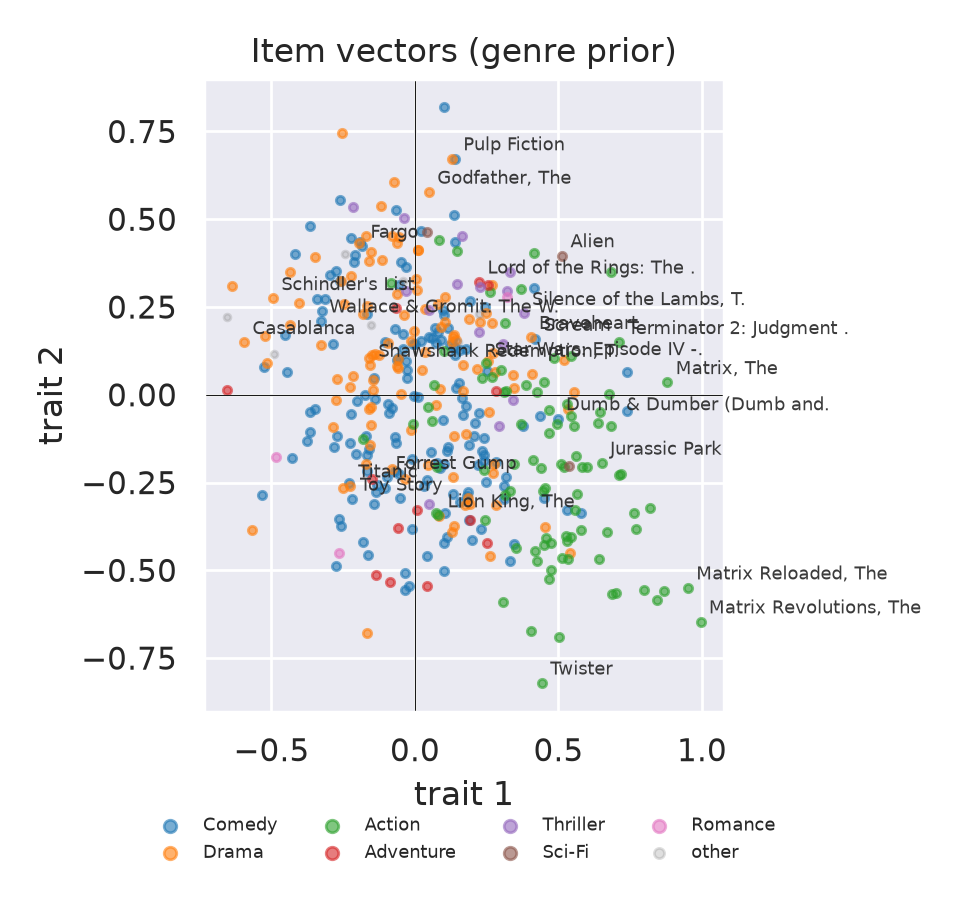
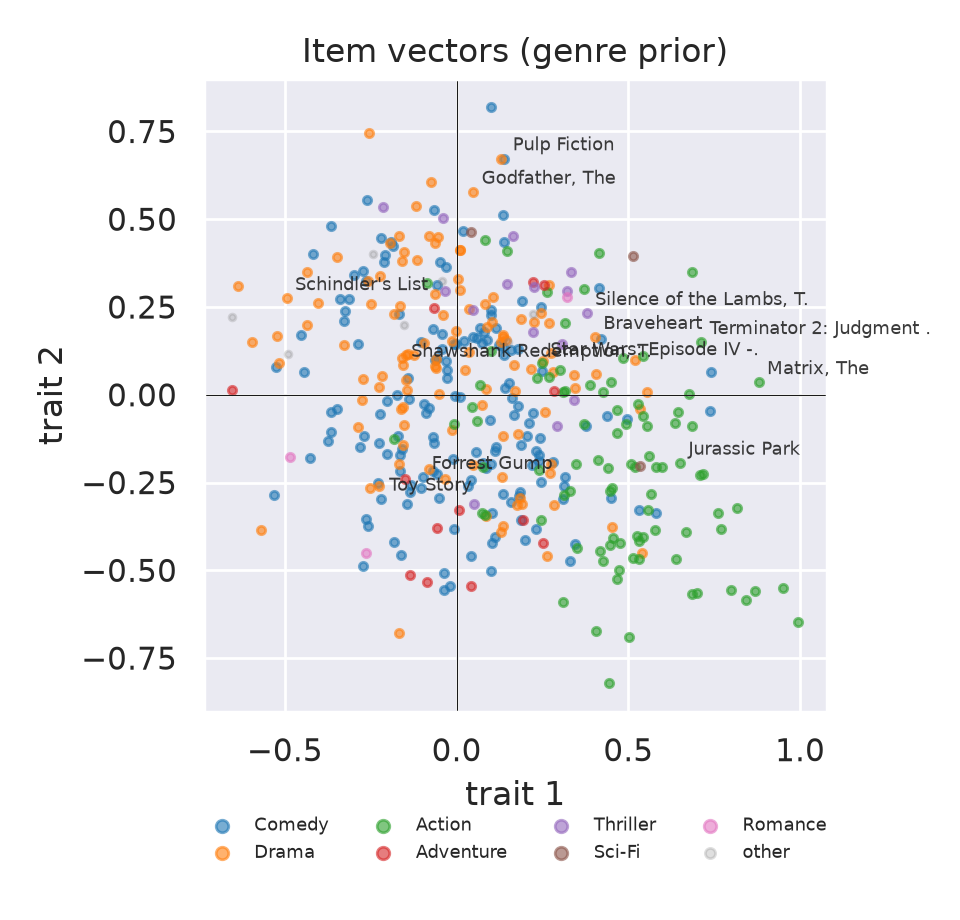
Enhance results tracking and visualization in recommender system practices; update JSON outputs and add result saving functionality

diff --git a/visulizations/plots.py b/visulizations/plots.py
@@ -37,20 +37,22 @@ def plot_loglog_degrees(
     movie_degrees: np.ndarray,
     output_dir: str | Path | None = None,
 ):
-    fig, axes = plt.subplots(1, 2, figsize=(12, 5))
+    fig, axes = plt.subplots(1, 2, figsize=(9, 4.2))
 
     for ax, values, title in [
         (axes[0], user_degrees, "User degree distribution"),
         (axes[1], movie_degrees, "Movie degree distribution"),
     ]:
-        unique_values, counts = np.unique(values, return_counts=True)
-        # scatter plot
-        log_unique_values = np.log10(unique_values)
-        log_counts = np.log10(counts)
-        ax.scatter(log_unique_values, log_counts)
+        # logarithmic bins: raw counts are too sparse in the tail to read
+        bins = np.unique(np.round(np.logspace(
+            np.log10(values.min()), np.log10(values.max() + 1), 25)))
+        density, edges = np.histogram(values, bins=bins, density=True)
+        centres = np.sqrt(edges[:-1] * edges[1:])
+        keep = density > 0
+        ax.loglog(centres[keep], density[keep], "o", ms=4)
         ax.set_title(title)
-        ax.set_xlabel("Log10 Degree k")
-        ax.set_ylabel("Log10 Count P(k)")
+        ax.set_xlabel("Degree k")
+        ax.set_ylabel("P(k) (log-binned)")
 
     _save_plot(fig, "degree_distribution.png", output_dir=output_dir)
 
@@ -113,14 +115,19 @@ def plot_lines(
 ) -> None:
     """Plot several named curves against a shared x axis."""
     fig, ax = plt.subplots(figsize=figsize)
-    for name, values in series.items():
+    styles = ["-", "--", ":"]
+    for i, (name, values) in enumerate(series.items()):
         ax.plot(x, values, marker="o" if markers else None, ms=3.5,
-                label=name)
+                ls=styles[i % len(styles)], lw=2.2 - 0.5 * i, label=name)
     ax.set_xlabel(xlabel)
     ax.set_ylabel(ylabel)
     ax.set_title(title)
     if logx:
         ax.set_xscale("log")
+        if len(x) <= 10:
+            ax.set_xticks(list(x))
+            ax.set_xticklabels([f"{v:g}" for v in x])
+            ax.minorticks_off()
     if logy:
         ax.set_yscale("log")
     if len(series) > 1:
@@ -178,7 +185,7 @@ def plot_embedding_2d(
     if other.any():
         ax.scatter(coords[other, 0], coords[other, 1], s=6, alpha=0.25,
                    color="gray", label="other")
-    for row, label in annotations:
+    for row, label in list(annotations)[:12]:
         ax.annotate(label, coords[row], fontsize=6.5, alpha=0.9,
                     xytext=(3, 3), textcoords="offset points")
     ax.axhline(0, color="k", lw=0.4)
@@ -257,14 +264,22 @@ def plot_histogram(
     vline: float | None = None,
     vline_label: str = "",
     figsize: tuple[float, float] = COLUMN_SIZE,
+    log10: bool = False,
 ) -> None:
-    """Histogram with an optional labelled vertical line."""
+    """Histogram with an optional labelled vertical line.
+
+    With ``log10=True`` the values (e.g. p-values that are all tiny) and the
+    vertical line are shown on a log10 scale.
+    """
     fig, ax = plt.subplots(figsize=figsize)
+    if log10:
+        values = np.log10(np.clip(np.asarray(values, dtype=float), 1e-300, None))
+        vline = None if vline is None else float(np.log10(vline))
     ax.hist(values, bins=bins, edgecolor="white")
     if vline is not None:
         ax.axvline(vline, color="crimson", lw=1.5, label=vline_label)
         ax.legend(fontsize=8)
-    ax.set_xlabel(xlabel)
+    ax.set_xlabel(f"log10 of {xlabel}" if log10 else xlabel)
     ax.set_ylabel("count")
     _save_plot(fig, filename, output_dir=Path(output_dir))
 

diff --git a/practice_03.py b/practice_03.py
@@ -1,3 +1,4 @@
+import json
 from pathlib import Path
 
 import numpy as np
@@ -219,6 +220,24 @@ def main() -> None:
     print(f"Final training RMSE: {train_rmse[-1]:.4f}")
     print(f"Final test RMSE: {test_rmse[-1]:.4f}")
     print(f"Training objective non-increasing: {np.all(np.diff(losses) <= 1e-8)}")
+
+    # same model with weak regularisation, to show that tau must be tuned
+    low_tau = 0.1
+    *_, train_rmse_low, test_rmse_low = fit_als(
+        data_by_user_train, data_by_movie_train, data_by_user_test,
+        user_id_to_index, item_id_to_index, epochs, latent_dim, lamb, gamma,
+        low_tau, random_state=42,
+    )
+    print(f"tau={low_tau}: train RMSE {train_rmse_low[-1]:.4f}, test RMSE {test_rmse_low[-1]:.4f}")
+    with open(output_dir / "results.json", "w") as handle:
+        json.dump({
+            "epochs": epochs, "latent_dim": latent_dim,
+            "lamb": lamb, "gamma": gamma,
+            "tau_runs": {
+                str(tau): {"train_rmse": float(train_rmse[-1]), "test_rmse": float(test_rmse[-1])},
+                str(low_tau): {"train_rmse": float(train_rmse_low[-1]), "test_rmse": float(test_rmse_low[-1])},
+            },
+        }, handle, indent=2)
 
     # save the npy arrays to the output directory
     (output_dir / "npy_arrays").mkdir(parents=True, exist_ok=True)

diff --git a/practice_04.py b/practice_04.py
@@ -1,4 +1,5 @@
 import argparse
+import json
 import os
 from pathlib import Path
 
@@ -75,6 +76,22 @@ def main() -> None:
     print(f"Final training RMSE: {result.train_rmse[-1]:.4f}")
     print(f"Final test RMSE: {result.test_rmse[-1]:.4f}")
     print(f"Training objective non-increasing: {np.all(np.diff(result.losses) <= 1e-8)}")
+
+    results = {
+        "dataset": args.data_dir.name,
+        "n_ratings": int(data.train_by_user.nnz + data.test_by_user.nnz),
+        "n_train": int(data.train_by_user.nnz),
+        "n_test": int(data.test_by_user.nnz),
+        "epochs": args.epochs,
+        "threads": args.threads,
+        "latent_dim": 10, "lamb": 0.09, "gamma": 0.1, "tau": 0.9,
+        "final_objective": float(result.losses[-1]),
+        "train_rmse": float(result.train_rmse[-1]),
+        "test_rmse": float(result.test_rmse[-1]),
+        "objective_non_increasing": bool(np.all(np.diff(result.losses) <= 1e-8)),
+    }
+    with open(output_dir / "results.json", "w") as handle:
+        json.dump(results, handle, indent=2)
 
     arrays_dir = output_dir / "npy_arrays"
     arrays_dir.mkdir(parents=True, exist_ok=True)

diff --git a/tools/make_report_assets.py b/tools/make_report_assets.py
@@ -288,6 +288,20 @@ def build(output: Path) -> tuple[dict[str, str], dict[str, str]]:
             "lcccc", ["train ratings", "test n", "MAP", "VB",
                       "mean pred.\\ std"], rows)
 
+    b2, b3 = load(output, "practice_02"), load(output, "practice_03")
+    if b2:
+        macros.update(biasTrain=f"{b2['train_rmse']:.4f}",
+                      biasTest=f"{b2['test_rmse']:.4f}")
+    if b3:
+        hi, lo = b3["tau_runs"]["0.9"], b3["tau_runs"]["0.1"]
+        macros.update(mfTrain=f"{hi['train_rmse']:.4f}",
+                      mfTest=f"{hi['test_rmse']:.4f}",
+                      mfTrainLowTau=f"{lo['train_rmse']:.4f}",
+                      mfTestLowTau=f"{lo['test_rmse']:.4f}")
+    big = load(output, "practice_04")
+    if big:
+        macros.update(bigTrain=f"{big['train_rmse']:.4f}",
+                      bigTest=f"{big['test_rmse']:.4f}")
     k = load(output, "benchmark")
     if k:
         threads = sorted(int(x) for x in k["seconds_per_epoch"])

diff --git a/practice_02.py b/practice_02.py
@@ -1,3 +1,4 @@
+import json
 from pathlib import Path
 
 import numpy as np
@@ -111,6 +112,11 @@ def main():
     plot_objective(iterations, negative_log_likelihood_test, title="ALS Regularized Negative Log Likelihood (Test)", output_dir=output_dir / "plots", offset=1)
     print(f"Final training RMSE: {train_rmse[-1]:.4f}")
     print(f"Final test RMSE: {test_rmse[-1]:.4f}")
+
+    with open(output_dir / "results.json", "w") as handle:
+        json.dump({"epochs": epochs, "lamb": lamb, "gamma": gamma,
+                   "train_rmse": float(train_rmse[-1]),
+                   "test_rmse": float(test_rmse[-1])}, handle, indent=2)
 
     # save the npy arrays to the output directory
     (output_dir / "npy_arrays").mkdir(parents=True, exist_ok=True)

diff --git a/practice_07.py b/practice_07.py
@@ -131,7 +131,7 @@ def main() -> None:
     p_aa = rerandomise(ctr["A"], ctr["A2"], args.repeats, rng)
     plots = args.output_dir / "plots"
     plot_histogram(p_ab, "p-value (A vs B)", "pvalues_ab.png", plots,
-                   vline=0.05, vline_label="0.05")
+                   vline=0.05, vline_label="p = 0.05", log10=True)
     plot_histogram(p_aa, "p-value (A vs A)", "pvalues_aa.png", plots,
                    vline=0.05, vline_label="0.05")
     per_user = per_user_ctr(log)

diff --git a/README.md b/README.md
@@ -58,8 +58,8 @@ alternating updates.
 
 Adding user and item latent vectors improves the rating model when factor
 regularization is tuned. With `lambda=0.09`, increasing `tau` from `0.1` to
-`0.9` reduced test RMSE from **1.2826** to **0.8549**; the latter run's training
-RMSE was **0.6316**. This illustrates the sensitivity of the model to
+`0.9` reduced test RMSE from **1.0277** to **0.8549** (training RMSE **0.4546** and
+**0.6316**; results in [`output/practice_03/results.json`](output/practice_03/results.json)). This illustrates the sensitivity of the model to
 regularization, rather than a comparison across different data splits.
 
 ### Practical 4: ALS on MovieLens 32M
@@ -67,8 +67,8 @@ regularization, rather than a comparison across different data splits.
 The large run uses two compressed sparse row layouts, one ordered by user and
 one by item. Numba compiles the update kernels and parallelizes independent row
 updates. After 30 epochs, training RMSE was **0.7133** and test RMSE **0.7777**;
-the training objective was monotone. The split and timing details are stored
-with the experiment outputs.
+the training objective was monotone. The split and final metrics are stored in
+[`output/practice_04/results.json`](output/practice_04/results.json).
 
 ![32M ALS objective](output/practice_04/plots/ALS_Regularized_Negative_Log_Likelihood_objective_0.png)
 
@@ -189,11 +189,11 @@ calibration on other data. Full bucketed metrics and posterior summaries:
 
 ### Parallel scaling benchmark
 
-On MovieLens 32M, measured time per epoch fell from **2.92 s** at one thread to
-**1.44 s** at eight threads, a **2.03x** speed-up. Efficiency at eight threads
-was **25.4%**. The small-dataset comparison measured **0.172 s/epoch** for the
-NumPy ALS implementation and **0.0113 s/epoch** for Numba at eight threads
-(**15.1x** in this short benchmark). Timings are machine- and run-dependent;
+On MovieLens 32M, measured time per epoch fell from **2.69 s** at one thread to
+**1.27 s** at eight threads, a **2.11x** speed-up. Efficiency at eight threads
+was **26.4%**. The small-dataset comparison measured **0.166 s/epoch** for the
+NumPy ALS implementation and **0.0108 s/epoch** for Numba at eight threads
+(**15.4x** in this short benchmark). Timings are machine- and run-dependent;
 the 32M measurement used two timed epochs after Numba warm-up.
 Full timing and efficiency measurements:
 [`output/benchmark/results.json`](output/benchmark/results.json).
